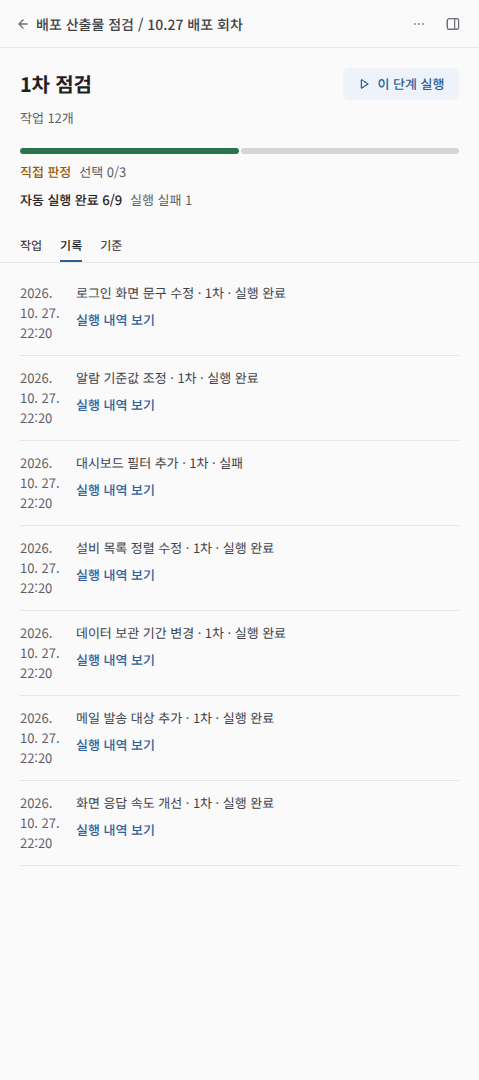
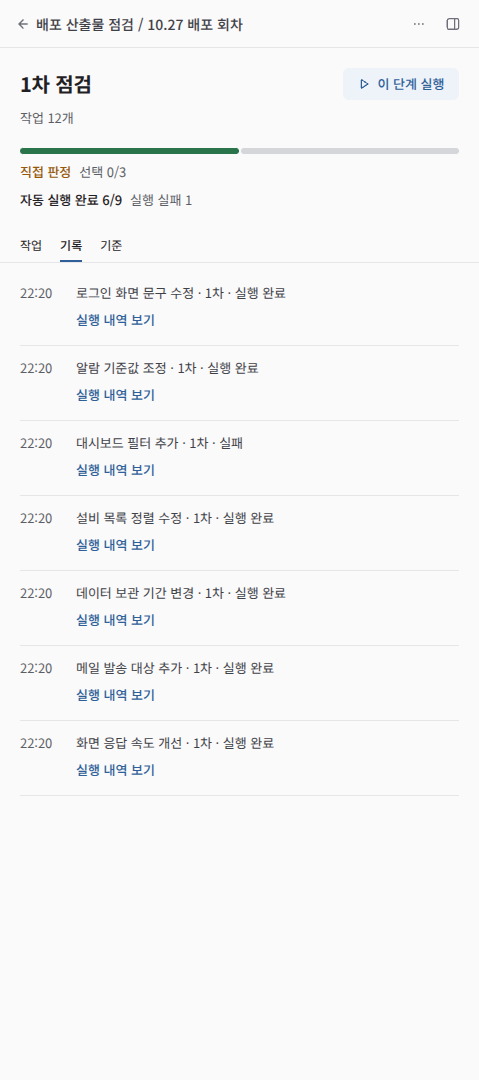
fix(ui): keep stage record timestamps visually compact

diff --git a/branding/ees/ui/ees-work-view.js b/branding/ees/ui/ees-work-view.js
@@ -646,7 +646,7 @@ function workStageLogHTML(rows,data){
   const {esc,time}=workUI,events=[];
   for(const row of rows){for(const attempt of row.attempts)events.push({at:attempt.finished_at || attempt.created_at,text:row.node.name+' · '+attempt.number+'차 · '+(attempt.status==='succeeded'?'실행 완료':workUI.statuses[attempt.status] || attempt.status),job:row.node.id,attempt:attempt.id});for(const decision of (row.saved.decision_history || Object.values(row.saved.decisions || {})).filter(item=>item.item_id==='job')){const attempt=row.attempts.find(item=>item.id===decision.attempt_id),parsed=workStageDecision(row.node,{decisions:{job:decision}},data.run.definition,attempt);events.push({at:decision.created_at,text:row.node.name+' · '+parsed.label+' · '+decision.actor_id,job:row.node.id});}}
   events.sort((a,b)=>String(b.at || '').localeCompare(String(a.at || '')));
-  return `<ol class="ew-vd-log">${events.map(event=>`<li><time>${esc(time(event.at))}</time><span>${esc(event.text)}${event.attempt?`<button type="button" class="ew-vd-evidence-toggle" data-action="stage_evidence" data-job-id="${esc(event.job)}" data-attempt-id="${esc(event.attempt)}">실행 내역 보기</button>`:''}</span></li>`).join('') || '<li><span>아직 기록이 없습니다.</span></li>'}</ol>`;
+  return `<ol class="ew-vd-log">${events.map(event=>`<li><time datetime="${esc(event.at || '')}" title="${esc(time(event.at))}" aria-label="${esc(time(event.at))}">${esc(Number.isNaN(new Date(event.at).valueOf())?time(event.at):new Intl.DateTimeFormat('ko-KR',{hour:'2-digit',minute:'2-digit',hour12:false}).format(new Date(event.at)))}</time><span>${esc(event.text)}${event.attempt?`<button type="button" class="ew-vd-evidence-toggle" data-action="stage_evidence" data-job-id="${esc(event.job)}" data-attempt-id="${esc(event.attempt)}">실행 내역 보기</button>`:''}</span></li>`).join('') || '<li><span>아직 기록이 없습니다.</span></li>'}</ol>`;
 }
 function workStageRulesHTML(rows,data){
   const {esc}=workUI,definitions=new Map();

diff --git a/evals/v4-ui-20260930.md b/evals/v4-ui-20260930.md
@@ -4,6 +4,8 @@
 
 ## 2026-10-28 · 공통 단계26판 실제 제품 연결·배포 검증
 
+**기록 탭 시각 보완:** 실제 제품 렌더러 캡처를 직접 확인했을 때 좁은 시각 열에서 전체 날짜가3줄로 늘어나 목업의 행 높이와 달랐다. 표시 시각은 `HH:mm`으로 맞추고 전체 날짜·시각은 `datetime`·`title`·`aria-label`로 보존했다. 같은6개 렌더러 상태를 다시 캡처해 오류·넘침0, 새 단언 포함 Node126/126을 확인했다. 이 변경이 포함된 최신 head의 Native·CI를 확인하며 앞선379 실행과 구분한다.
+
 **CI 준비 후 동선 회귀 보완:** 제품 head `b92a3036869c4e5f83a1125987641a32f207c886`의 첫 [CI378](https://github.com/knadalkim-a11y/team-agent-poc/actions/runs/40602695446)가 진행되는 동안 기존 Native/Complete Native 진입 경로를 다시 검토했다. 단일 단계 자동 진입이 명시적 `overview`와 완료한 실행의 전체 이력을 가리는 실제 동선 회귀를 찾았다. 명시적 개요는 단계 선택을 지우고 전체 개요를 열며, 완료한 실행은 자동 단계 진입에서 제외한다. 전체 개요에서 특정 단계를 선택하는 읽기 전용 열람은 유지한다. 새 단언 포함 Node125/125를 통과했고 기존 Native 시험을 삭제·완화하지 않았다. 이 변경은 앞선 head CI 성공 여부와 별개로 새 head의 전체 검증을 요구한다. 셸 push는 GitHub 자격 증명 부재로 실패했고, 연결된 GitHub API로44개 blob/동일 tree 검증 후 fast-forward 반영했다. 권한 제한이나 검사 규칙을 우회하지 않았다.
 
[1 lines of base64/hex data omitted]
